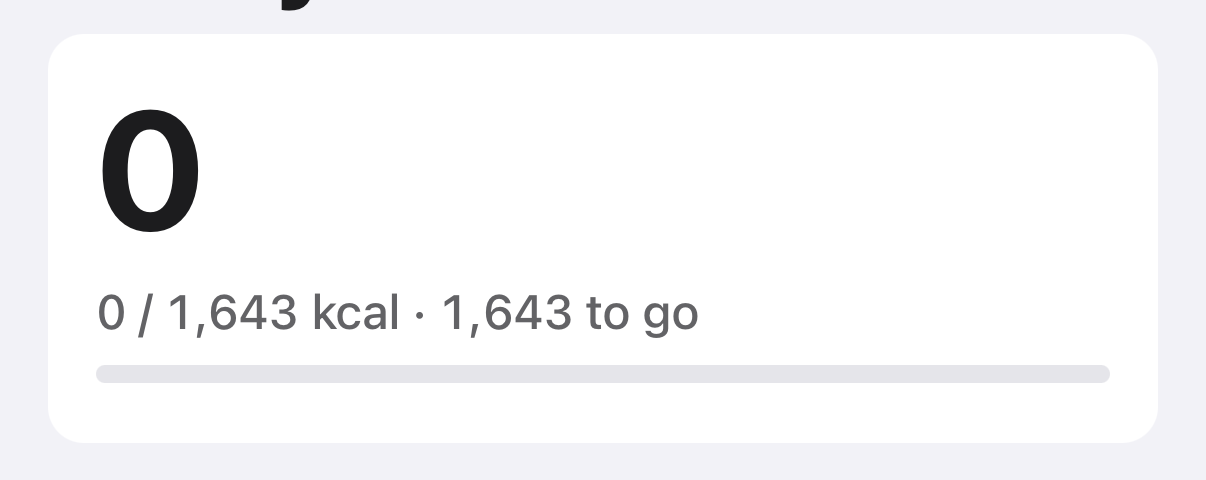
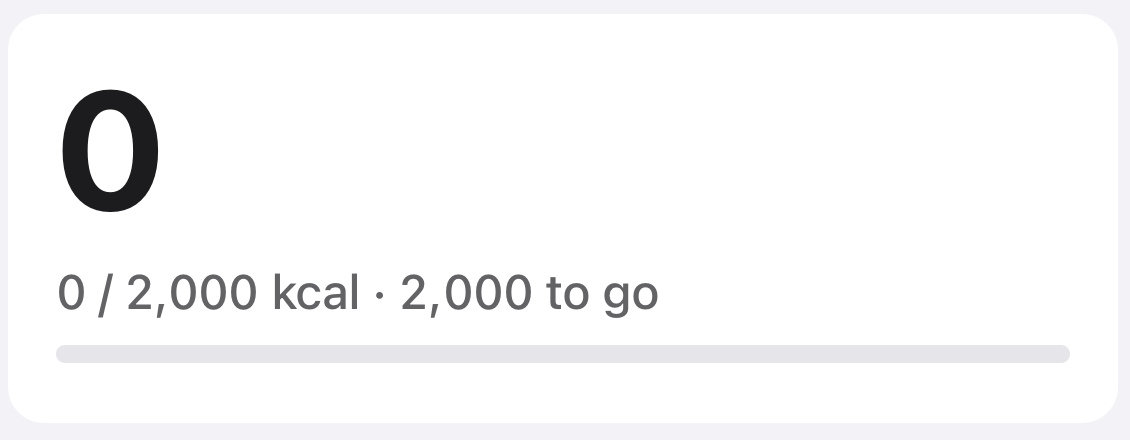
FTY-192: Replace real-session visual evidence with hermetic E2E-fixture hero crops
The round-2 review blocked the PR because the committed verification
screenshots were captured from a real-backend/shared session, one showing a
real nutrition log row. Delete all three full-frame real-session captures and
replace the before/after hero crops with frames captured from the
EXPO_PUBLIC_FATTY_E2E fixture harness (synthetic E2E_DAILY_SUMMARY numerals,
empty fixture timeline, no live backend or real data), cropped to the hero
card per the story. The two crops are byte-identical, preserving the
no-size-regression evidence. README updated to document the hermetic method.
Docs-only change; make verify exits 0.

Changed region(s): [[0.031, 0.5909, 0.9602, 0.8273], [0.031, 0.2068, 0.1858, 0.5023], [0.2168, 0.0, 0.2788, 0.0295]]

diff --git a/docs/verification/FTY-192/README.md b/docs/verification/FTY-192/README.md
@@ -1,44 +1,47 @@
 # FTY-192 manual verification — Today hero, no size regression
 
-Story-required manual verification for the type-scale foundation (`DisplayText`
-+ `typeScale` + the fontSize guard), run 2026-07-03 on an **iPhone 17 Pro
-simulator (iOS 26.5)** against the **real backend** on `:18000` (an already
-running RC), driven by the app's shared, previously-connected session — not
-the E2E mock.
+Story-required visual verification for the type-scale foundation (`DisplayText`
++ `typeScale` + the fontSize guard), run 2026-07-04 on an iOS 26.5 simulator
+against the **E2E fixture harness** — the `EXPO_PUBLIC_FATTY_E2E` dev build
+that seeds a synthetic session and mocks every API call from
+`mobile/e2e/fixtures.ts`. No live backend, no real account, no real nutrition
+logs: the Today hero renders `E2E_DAILY_SUMMARY`'s deterministic synthetic
+numerals (`0 / 2,000 kcal · 2,000 to go`, from the `E2E_TARGET` fixture) over
+an empty fixture timeline.
 
-This story is presentation-only and touches no user-facing flow, so the
-evidence is a **before/after comparison of the same screen** rather than a new
-flow: the Today hero (`CalorieHero`) rendered with the pre-change code (raw
-`Text` + manual `fontFamily: DISPLAY_FONT_FAMILY` override) versus the
-post-change code (`ThemedNumber`, now built on the new `DisplayText`
-primitive).
+This story is presentation-only, so the evidence is a **before/after
+comparison of the same hero surface**: `CalorieHero` rendered with the
+pre-change code (raw `Text` + manual `fontFamily: DISPLAY_FONT_FAMILY`
+override, from `origin/main`) versus the post-change code (`ThemedNumber`,
+built on the new `DisplayText` primitive).
 
 ## Method
 
-- Started this worktree's own Metro (`expo start --dev-client`) and
-  re-pointed the already-booted, already-signed-in simulator app at it
-  (`simctl terminate` + `simctl openurl com.fatty://...`), per the documented
-  shared-simulator re-point recipe.
-- Captured `today-hero-after-displaytext.png` with the story's changes in
-  place.
-- `git stash`-ed only `components/CalorieHero.tsx` (reverting it to the
+- Started this worktree's Metro in E2E fixture mode
+  (`EXPO_PUBLIC_FATTY_E2E=true npx expo start --dev-client`) and pointed a
+  leased simulator's dev-client at it (`simctl terminate` + `simctl openurl`
+  deep link). The harness boots straight into the fixture session — no
+  sign-in, no server.
+- Captured the **after** frame with the story's changes in place.
+- Checked out `origin/main`'s `mobile/components/CalorieHero.tsx` (the
   pre-story `Text` + inline `fontFamily` override), relaunched so Metro served
-  the reverted JS, and captured `today-hero-before-displaytext.png`.
-- Restored the stash (`git stash pop`) to return to the story's code before
-  continuing work.
+  the reverted JS (Metro's delta bundle rebuilt exactly the one changed
+  module), and captured the **before** frame.
+- Restored the story's `CalorieHero` before continuing.
+- Cropped each frame to the hero card with `sips`; only the hero-numeral
+  crops are committed.
 
 ## Screenshot index
 
 | Screenshot | State | Evidence |
 |---|---|---|
-| `today-hero-before-displaytext.png` / `-crop.png` | Pre-story `CalorieHero` (raw `Text` + manual `fontFamily` override) | Hero reads `0 / 1,643 kcal · 1,643 to go` |
-| `today-hero-after-displaytext.png` / `-crop.png` | Post-story `CalorieHero` (routed through `ThemedNumber` → `DisplayText`) | Same layout, same copy, same hero size — the two crops are pixel-identical |
-| `today-hero-after-displaytext-with-entry.png` | Post-story, same account with a logged (uncounted) entry present | Confirms the hero renders correctly once the timeline has content beneath it |
+| `today-hero-before-displaytext-crop.png` | Pre-story `CalorieHero` (raw `Text` + manual `fontFamily` override) | Hero reads `0 / 2,000 kcal · 2,000 to go` (synthetic fixture numerals) |
+| `today-hero-after-displaytext-crop.png` | Post-story `CalorieHero` (routed through `ThemedNumber` → `DisplayText`) | Same layout, same copy, same hero size |
 
-The before/after crops (`*-crop.png`, cropped to the hero card) are
-pixel-identical: the `DisplayText` consolidation does not change the hero's
-rendered size or position. The one intentional visual change — the hero
-numeral now carries `displayTracking` (-0.5 letter-spacing) instead of the
-previous explicit `letterSpacing: 0` override — is not perceptible at a single
-"0" digit; `components/CalorieHero.test.tsx` (`CalorieHero — display face`)
-asserts the tracking and `tabular-nums` directly on the rendered node.
+The two crops are **byte-identical** (`cmp` reports no difference): the
+`DisplayText` consolidation does not change the hero's rendered size or
+position. The one intentional visual change — the hero numeral now carries
+`displayTracking` (-0.5 letter-spacing) instead of the previous explicit
+`letterSpacing: 0` override — is not perceptible at a single "0" digit;
+`components/CalorieHero.test.tsx` (`CalorieHero — display face`) asserts the
+tracking and `tabular-nums` directly on the rendered node.
